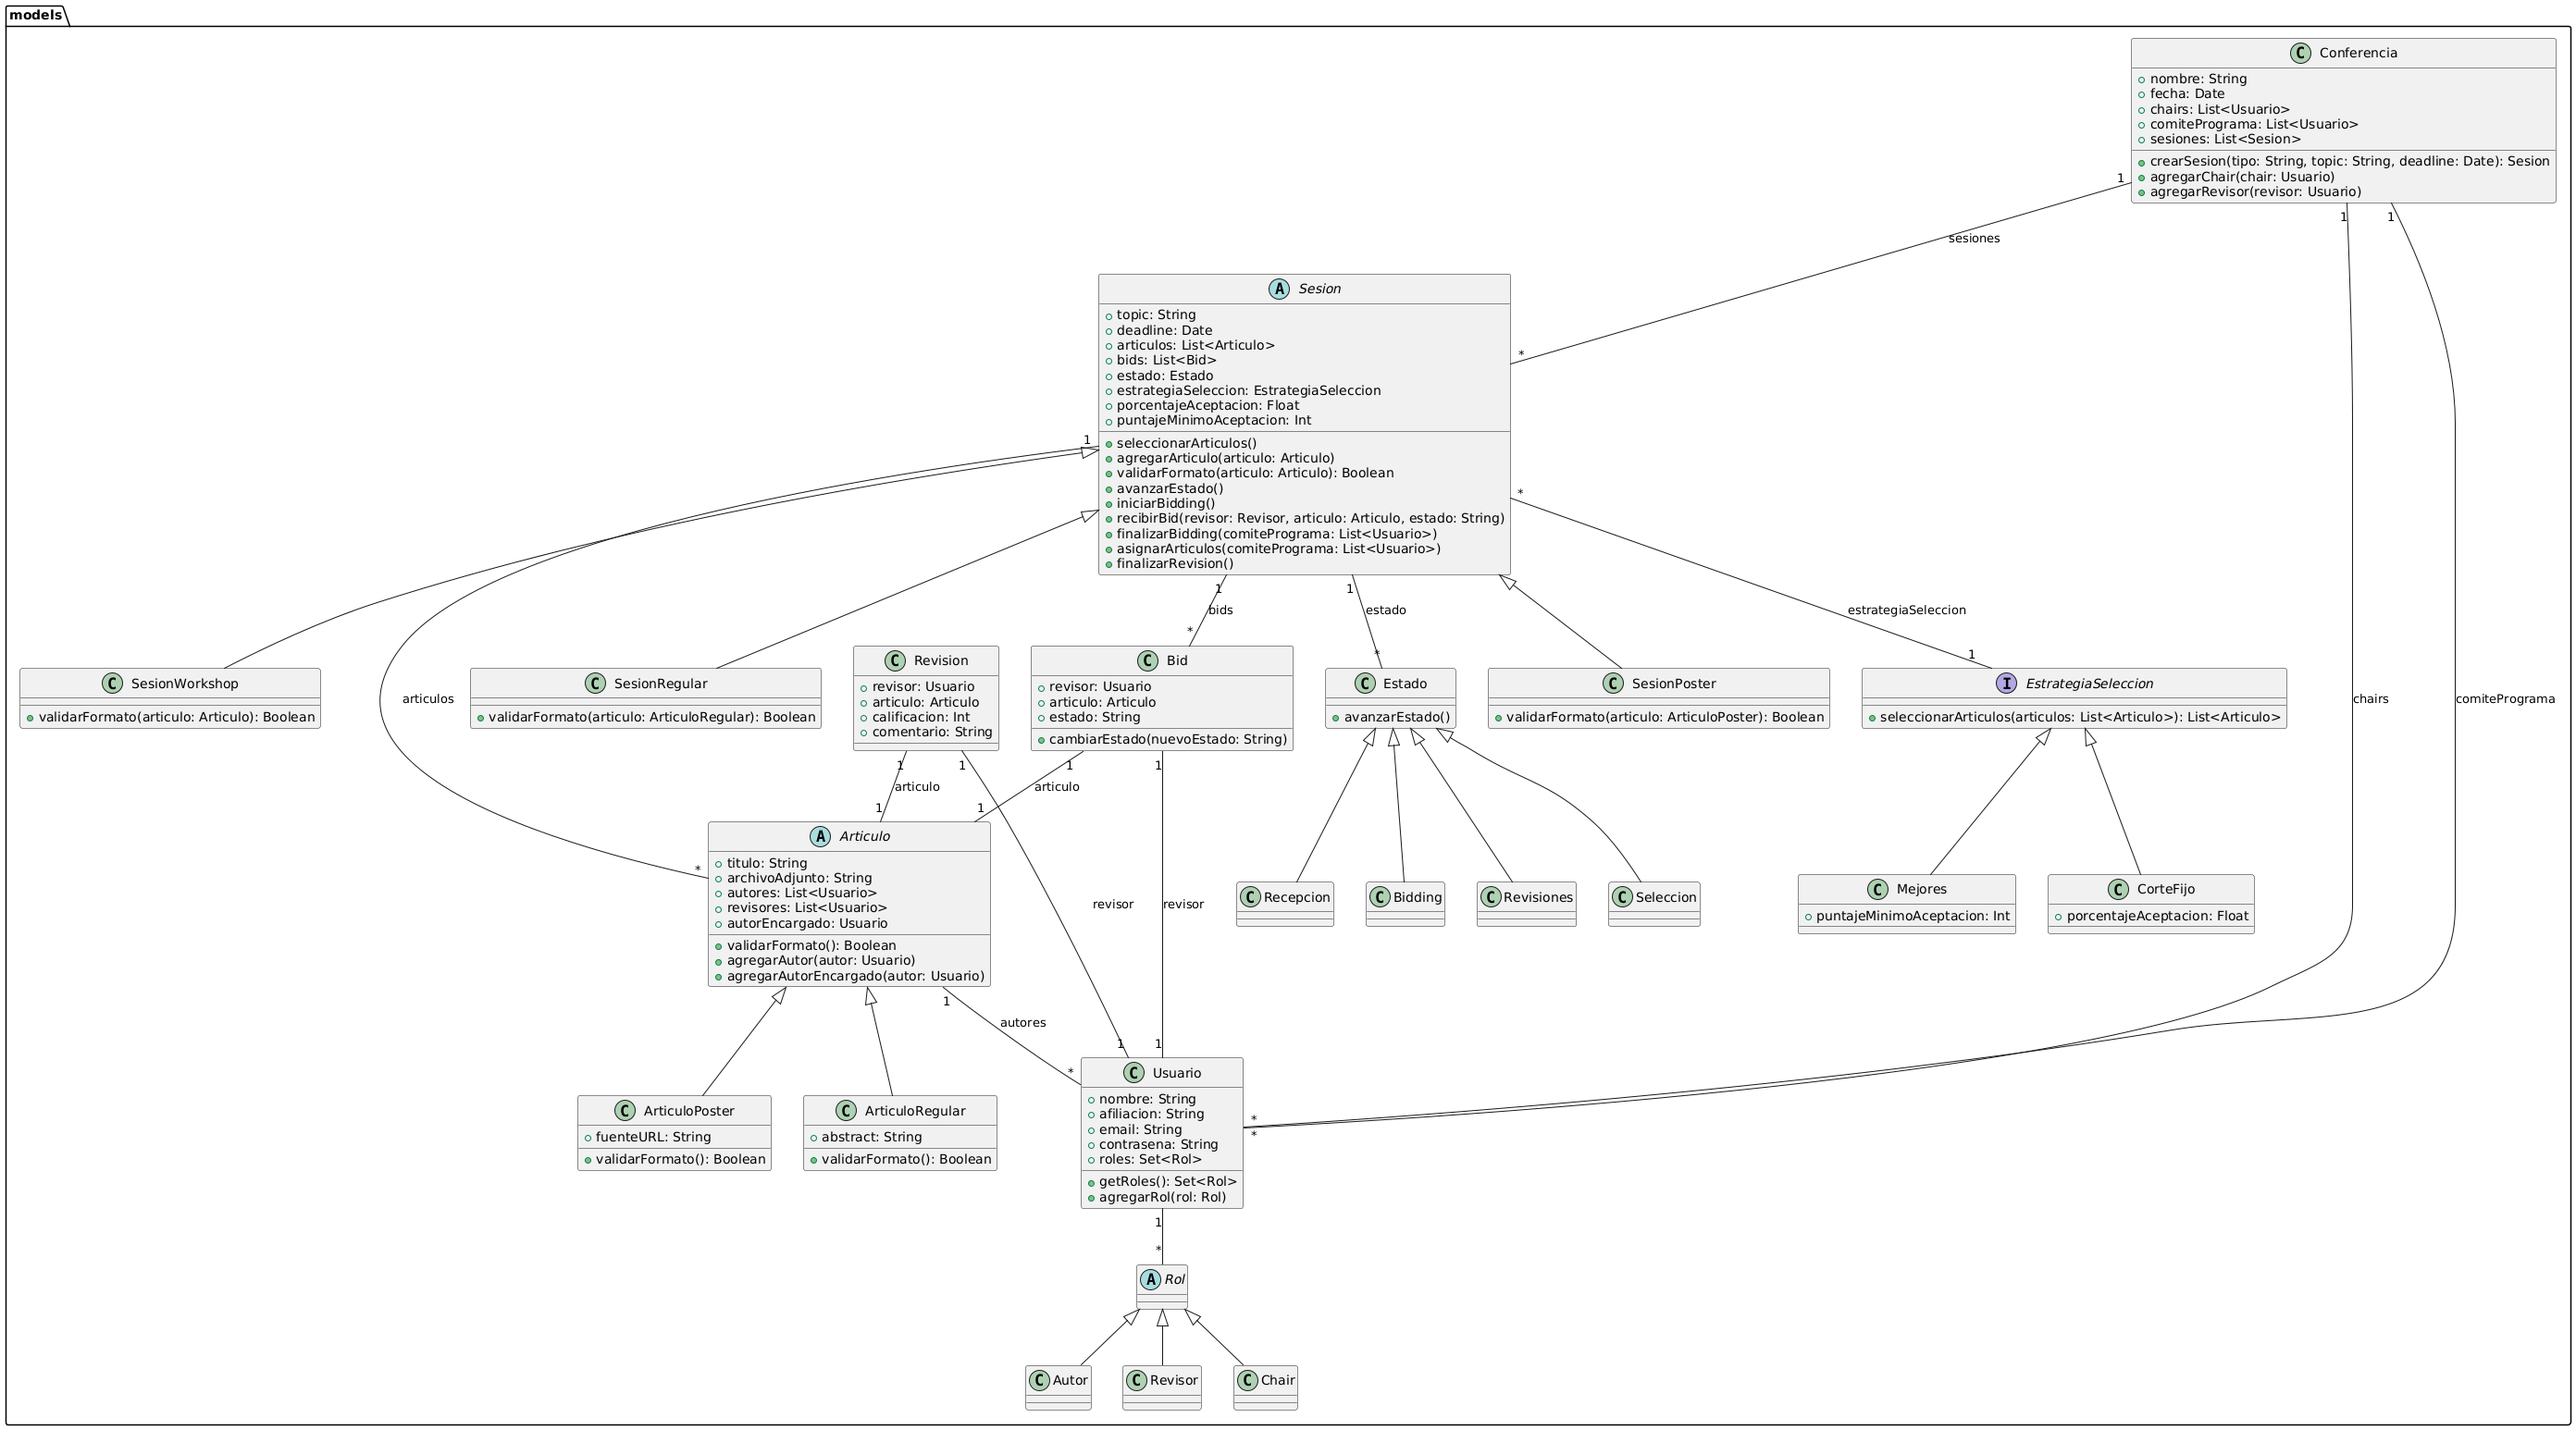
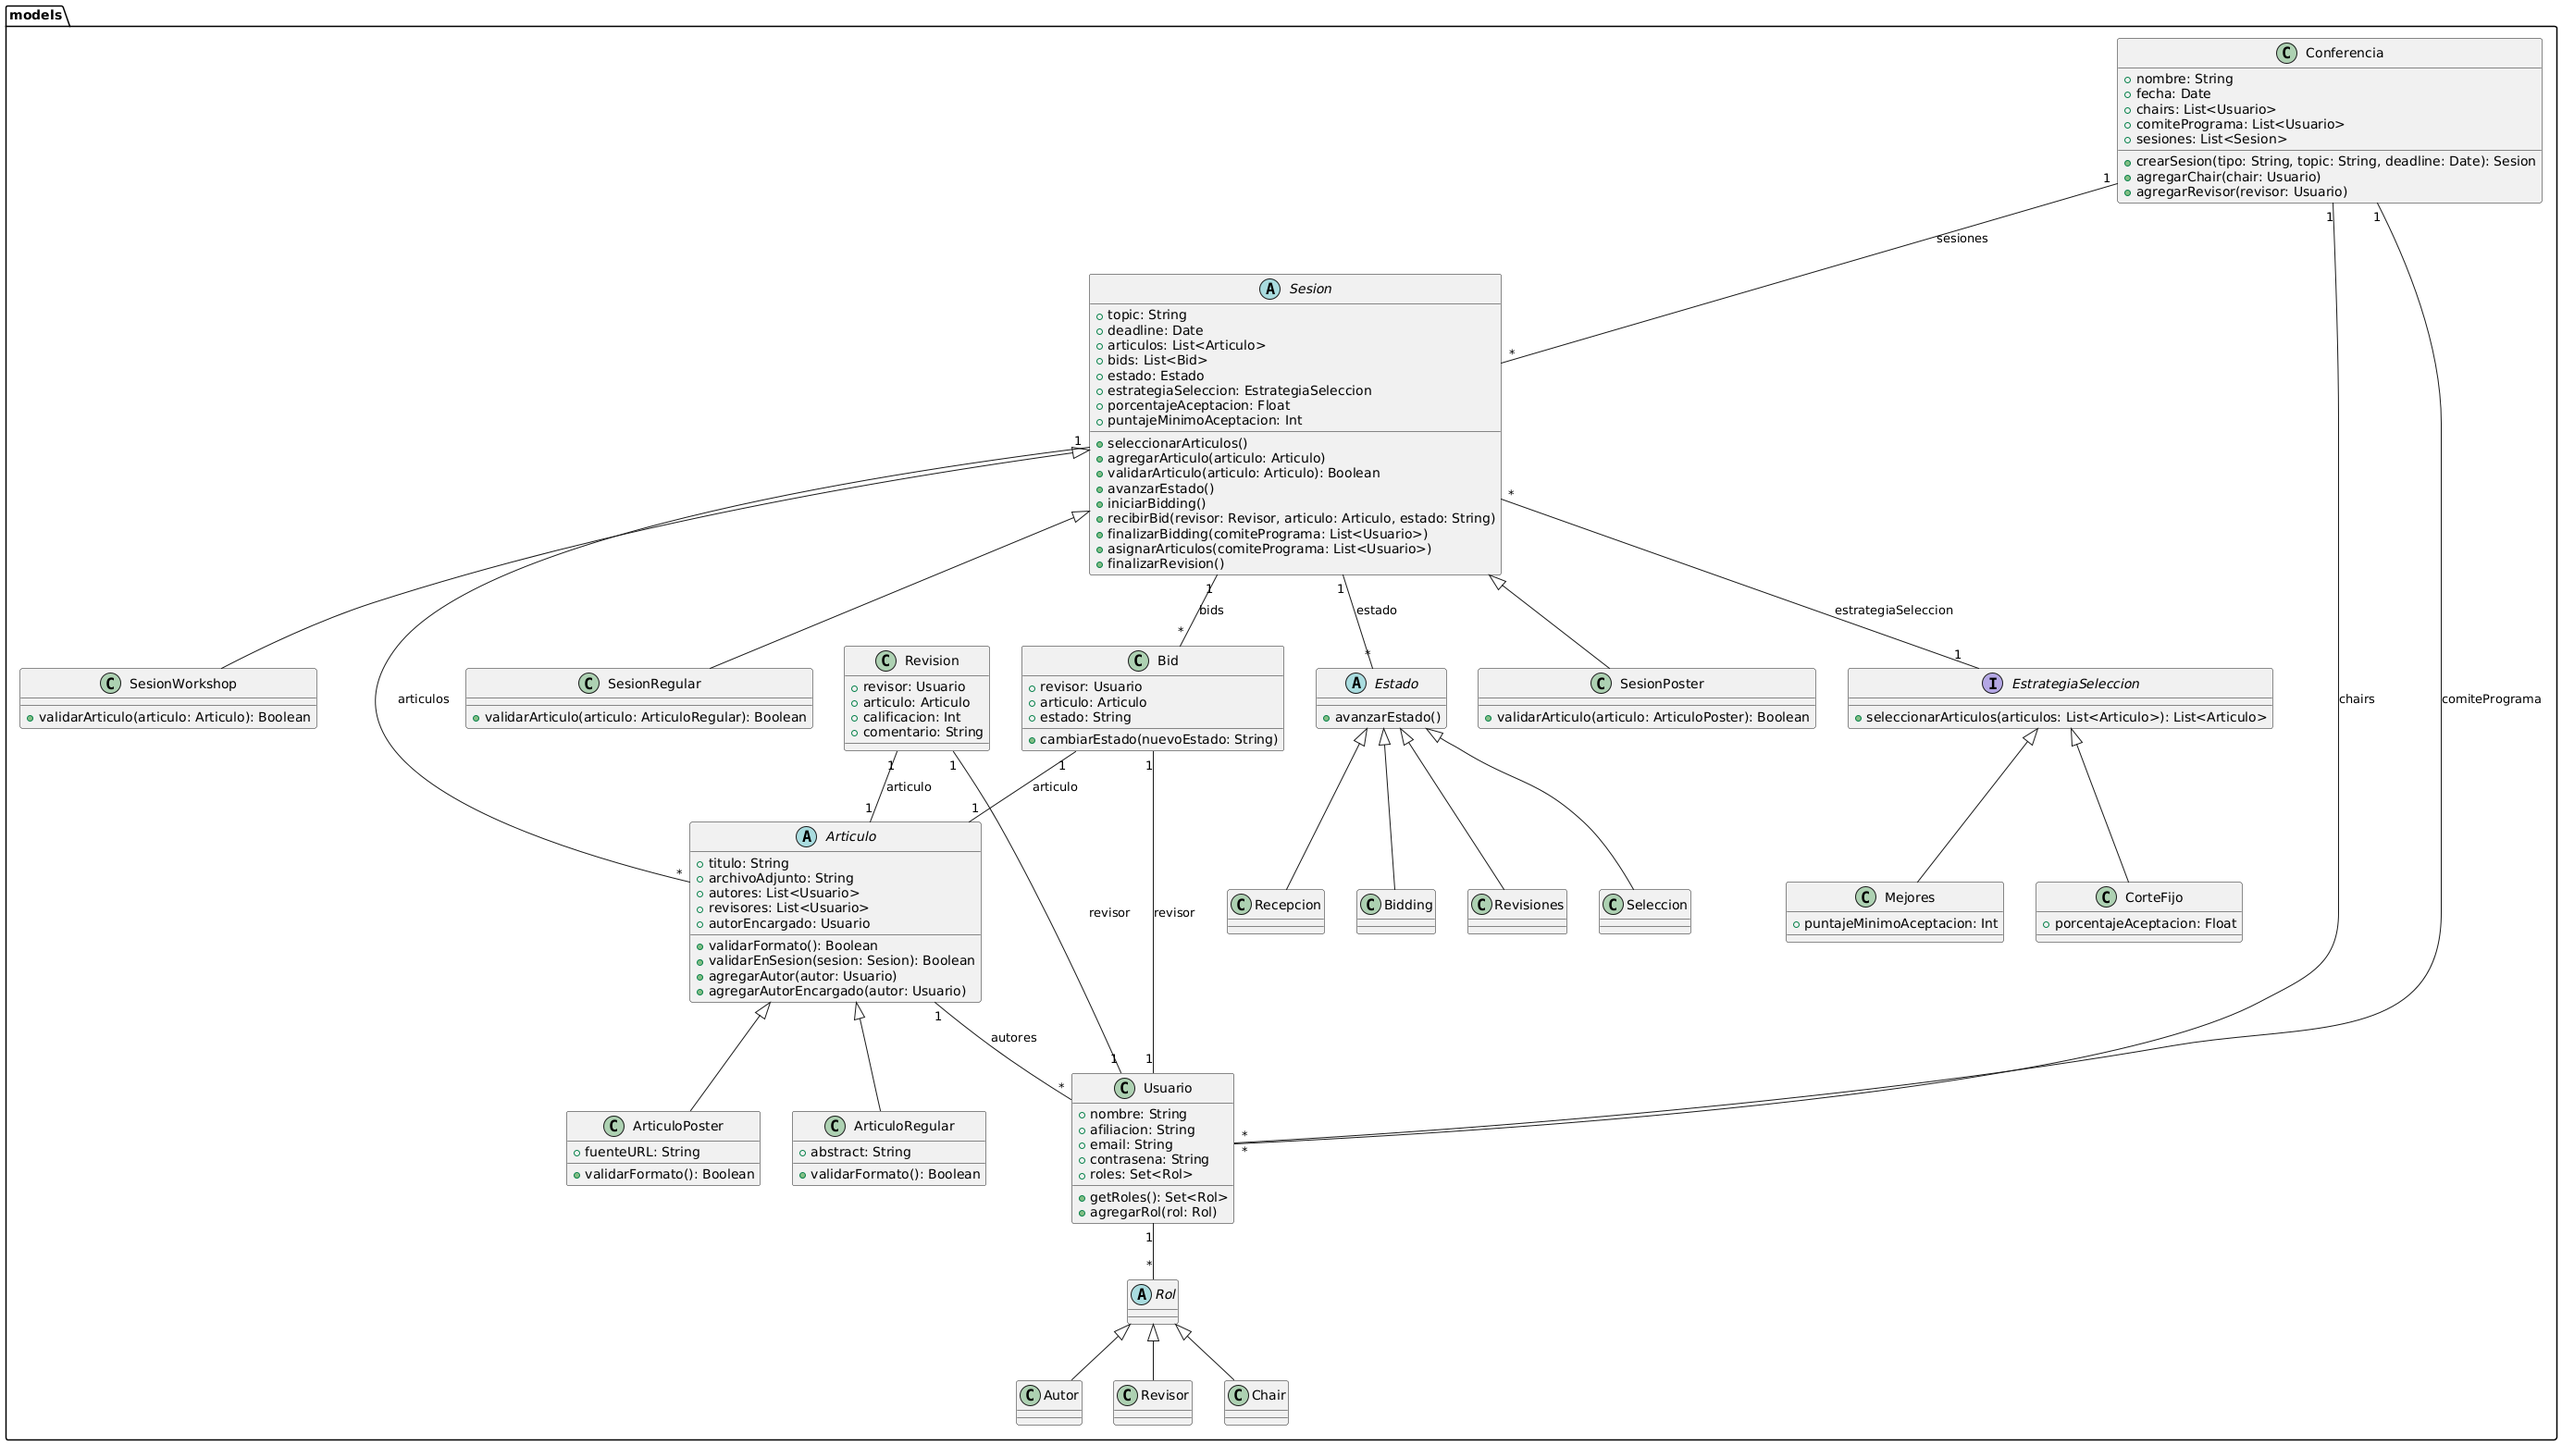
Se agrega el patron Double Dispatch

diff --git a/tests/SesionRegular.test.js b/tests/SesionRegular.test.js
@@ -7,13 +7,14 @@ test('Validar formato de artículo en SesionRegular', () => {
   const usuario = new Usuario('Usuario1', 'Afiliacion1', 'email1@example.com', 'password1');
   const autor = new Autor();
   usuario.agregarRol(autor);
+
   const sesion = new SesionRegular('Regular Session', '2024-12-01');
   const articuloRegular = new ArticuloRegular('Título Regular', 'archivo', 'Resumen corto');
   articuloRegular.agregarAutor(usuario);
   articuloRegular.agregarAutorEncargado(usuario);
 
-  expect(sesion.validarFormato(articuloRegular)).toBe(true);
+  expect(articuloRegular.validarEnSesion(sesion)).toBe(true);
 
   const articuloInvalido = {};
-  expect(sesion.validarFormato(articuloInvalido)).toBe(false);
+  expect(() => sesion.validarArticulo(articuloInvalido)).toThrow();
 });

diff --git a/tests/SessionWorkshop.test.js b/tests/SessionWorkshop.test.js
@@ -13,8 +13,9 @@ test('Validar formato de artículo en SesionWorkshop', () => {
   articulo.agregarAutor(usuario);
   articulo.agregarAutorEncargado(usuario);
 
-  expect(sesion.validarFormato(articulo)).toBe(true);
+  // Se usa validarEnSesion en lugar de validarFormato directamente en la sesión
+  expect(articulo.validarEnSesion(sesion)).toBe(true);
 
   const articuloInvalido = {};
-  expect(sesion.validarFormato(articuloInvalido)).toBe(false);
+  expect(() => sesion.validarArticulo(articuloInvalido)).toThrow();
 });

diff --git a/models/Sesion.js b/models/Sesion.js
@@ -56,14 +56,14 @@ class Sesion {
       throw new Error('No se puede agregar artículos después de la fecha límite');
     }
 
-    if (this.validarFormato(articulo)) {
+    if (articulo.validarEnSesion(this)) {
       this.articulos.push(articulo);
     } else {
       throw new Error('Formato de artículo inválido.');
     }
   }
 
-  validarFormato(articulo) {
+  validarArticulo(articulo) {
     throw new Error("Este método debe ser implementado por las subclases.");
   }
 

diff --git a/tests/SesionPoster.test.js b/tests/SesionPoster.test.js
@@ -13,8 +13,8 @@ test('Validar formato de artículo en SesionPoster', () => {
     articuloPoster.agregarAutor(usuario);
     articuloPoster.agregarAutorEncargado(usuario);
 
-    expect(sesion.validarFormato(articuloPoster)).toBe(true);
+    expect(articuloPoster.validarEnSesion(sesion)).toBe(true);
 
     const articuloInvalido = {};
-    expect(sesion.validarFormato(articuloInvalido)).toBe(false);
+    expect(() => sesion.validarArticulo(articuloInvalido)).toThrow();
 });

diff --git a/models/ArticuloRegular.js b/models/ArticuloRegular.js
@@ -8,7 +8,7 @@ class ArticuloRegular extends Articulo {
 
   validarFormato() {
     let palabras = this.abstract.trim().split(/\s+/);
-    return (this.abstract !== null && this.abstract !== "") && palabras.length <= 300 && (this.titulo !== null && this.variable !== "") && this.autores.length >= 1;
+    return (this.abstract !== null && this.abstract !== "") && palabras.length <= 300 && (this.titulo !== null && this.titulo !== "") && this.autores.length >= 1;
   }
 }
 

diff --git a/models/SesionRegular.js b/models/SesionRegular.js
@@ -2,8 +2,11 @@ const Sesion = require('./Sesion');
 const ArticuloRegular = require('./ArticuloRegular');
 
 class SesionRegular extends Sesion {
-  validarFormato(articulo) {
-    return articulo instanceof ArticuloRegular && articulo.validarFormato();
+  validarArticulo(articulo) {
+    if (!(articulo instanceof ArticuloRegular)) {
+      throw new Error("El artículo no es un ArticuloRegular válido.");
+    }
+    return articulo.validarFormato();
   }
 }
 

diff --git a/models/SesionPoster.js b/models/SesionPoster.js
@@ -2,8 +2,11 @@ const Sesion = require('./Sesion');
 const ArticuloPoster = require('./ArticuloPoster');
 
 class SesionPoster extends Sesion {
-  validarFormato(articulo) {
-    return articulo instanceof ArticuloPoster && articulo.validarFormato();
+  validarArticulo(articulo) {
+    if (!(articulo instanceof ArticuloPoster)) {
+      throw new Error("El artículo no es un ArticuloPoster válido.");
+    }
+    return articulo.validarFormato();
   }
 }
 

diff --git a/models/SesionWorkshop.js b/models/SesionWorkshop.js
@@ -2,8 +2,11 @@ const Sesion = require('./Sesion');
 const Articulo = require('./Articulo');
 
 class SesionWorkshop extends Sesion {
-  validarFormato(articulo) {
-    return articulo instanceof Articulo && articulo.validarFormato();
+  validarArticulo(articulo) {
+    if (!(articulo instanceof Articulo)) {
+      throw new Error("El artículo no es un Articulo válido.");
+    }
+    return articulo.validarFormato();
   }
 }
 

diff --git a/tests/Sesion.test.js b/tests/Sesion.test.js
@@ -44,7 +44,7 @@ describe('Sesion', () => {
     it('No debería avanzar más allá del último estado', () => {
         const sesion = new SesionRegular('Topic', '2025-12-01');
         for (let i = 0; i < 4; i++) {
-            sesion.avanzarEstado();
+        sesion.avanzarEstado();
         }
         expect(sesion.estado instanceof Seleccion).toBe(true);
         sesion.avanzarEstado();

diff --git a/models/Articulo.js b/models/Articulo.js
@@ -16,6 +16,9 @@ class Articulo {
   validarFormato() {
     throw new Error("Este método debe ser implementado por las subclases.");
   }
+  validarEnSesion(sesion) {
+    return sesion.validarArticulo(this);
+  }
 
   agregarRevisor(revisor) {
     if (revisor instanceof Revisor) {
